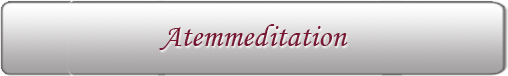
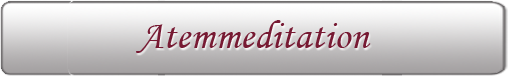
Styling efter Silkes anvisninger

Changed region(s): [[0.2657, 0.2632, 0.7382, 0.7368], [0.6496, 0.3158, 0.6791, 0.3421]]

diff --git a/www/about-silke.html b/www/about-silke.html
@@ -2,7 +2,7 @@
 <html lang="de">
 <head>
 	<meta http-equiv="Content-Type" content="text/html; charset=utf-8" />
-	<title>Mindfulness Bodyscan: Über Silke Rowlin</title>
+	<title>Achtsamkeits-meditation: Über Silke Rowlin</title>
     <link rel="stylesheet" href="css/mindf-bodyscan.css">
 	<script src="phonegap.js"></script>
     <script src="js/zepto.min.js"></script>
@@ -14,14 +14,17 @@
 	<div id="wrapper">
     	<div class="section group">
             <div class="col span_4_of_4">
-                <img src="img/Headline1.png" width="337" height="142" alt="Mindfulness Bodyscan"/>
+                <img src="img/Headline1.png" width="380" height="142" alt="Mindfulness Bodyscan"/><br/>
+            	<img src="img/Headline3.png" width="280" height="75" alt="Innere Stille im Alltag erleben"><br/>
             </div>
             
             <div class="col span_4_of_4">
               <div class="uberBox">
-                 Über Silke Rowlin
+                 <p>Silke Rowlin ist in Deutschland geboren und aufgewachsen. 
+                 Sie lebt und arbeitet als Psychologin und Meditationslehrerin in Dänemark.</p>
+				<p>Seit ihrer Jugendzeit hat Yoga, Meditation und Selbstfindung ihren Lebensweg erfüllt und geprägt. Die Ausbildung zur Yogalehrerin, Meditationsaufenthalte in Indien und eine nachfolgende tiefe innere Erfahrung des Seins, waren wichtige Wendepunkte in ihrem Leben. Dies hat dazu geführt, dass Silke sich heute in ihrer Arbeit als Psychologin der Aufgabe widmet Menschen zu helfen die heilende Kraft der Achtsamkeit wieder zu entdecken, zu erleben und in ihr Leben zu integrieren.</p>
               </div>
-              <a href="index.html" id="zuhauseButton" class="button">&nbsp;</a><br/>
+              <a href="willkommen.html" id="willkommenButton" class="button">&nbsp;</a><br/>
             </div>       
       </div>
     </div>

diff --git a/www/track5.html b/www/track5.html
@@ -2,7 +2,7 @@
 <html lang="de">
 <head>
 	<meta http-equiv="Content-Type" content="text/html; charset=utf-8" />
-	<title>Mindfulness Bodyscan: Achtsamkeit gegenüber schweren Gefühlen</title>
+	<title>Achtsamkeits-meditation: Schweren Gefühlen annehmen</title>
     <link rel="stylesheet" href="css/mindf-bodyscan.css">
 	<script src="phonegap.js"></script>
     <script src="js/zepto.min.js"></script>
@@ -93,16 +93,15 @@
 
 <body style="background-image:url(img/backgroundT5.jpg);">
 	<div id="wrapper">
-    	<div class="section group">
+<div class="section group">
                 <div class="col span_4_of_4">
-                	<img src="img/Headline1.png" width="337" height="142" alt="Mindfulness Bodyscan"/><br/>
-          			<img src="img/Headline2.png" width="152" height="112" alt="mit Psychologe Silke Rowlin"/>
+                	<img src="img/Headline1.png" width="380" height="142" alt="Mindfulness Bodyscan"/><br/>
+            		<img src="img/Headline3.png" width="280" height="75" alt="Innere Stille im Alltag erleben"><br/>
                 </div>
                 
                 <div class="col span_4_of_4">
                   <div class="trackNameBox">
-                     Achtsamkeit gegenüber schweren Gefühlen
-                  </div>
+                     Schwere Gefühle annehmen</div>
                 </div>
                 
                 <div class="col span_4_of_4">
@@ -113,7 +112,7 @@
                      <p id="audio_position"></p>
                   </div>
                   <br/>
-                  <a href="index.html" id="zuhauseButton" class="button">&nbsp;</a><br/>
+                  <a href="willkommen.html" id="willkommenButton" class="button">&nbsp;</a><br/>
                 </div>         
       </div>
     </div>

diff --git a/www/track4.html b/www/track4.html
@@ -2,7 +2,7 @@
 <html lang="de">
 <head>
 	<meta http-equiv="Content-Type" content="text/html; charset=utf-8" />
-	<title>Mindfulness Bodyscan: Bodyscan Im Körper zu Hause sein</title>
+	<title>Achtsamkeits-meditation: Bodyscan Im Körper zu Hause sein</title>
     <link rel="stylesheet" href="css/mindf-bodyscan.css">
 	<script src="phonegap.js"></script>
     <script src="js/zepto.min.js"></script>
@@ -93,15 +93,15 @@
 
 <body style="background-image:url(img/backgroundT4.jpg);">
 	<div id="wrapper">
-    	<div class="section group">
+  <div class="section group">
                 <div class="col span_4_of_4">
-                	<img src="img/Headline1.png" width="337" height="142" alt="Mindfulness Bodyscan"/><br/>
-          			<img src="img/Headline2.png" width="152" height="112" alt="mit Psychologe Silke Rowlin"/>
+                	<img src="img/Headline1.png" width="380" height="142" alt="Mindfulness Bodyscan"/><br/>
+            		<img src="img/Headline3.png" width="280" height="75" alt="Innere Stille im Alltag erleben"><br/>
                 </div>
                 
                 <div class="col span_4_of_4">
                   <div class="trackNameBox">
-                     Bodyscan Im Körper zu Hause sein
+                     Bodyscan
                   </div>
                 </div>
                 
@@ -113,7 +113,7 @@
                      <p id="audio_position"></p>
                   </div>
                   <br/>
-                  <a href="index.html" id="zuhauseButton" class="button">&nbsp;</a><br/>
+                  <a href="willkommen.html" id="willkommenButton" class="button">&nbsp;</a><br/>
                 </div>         
       </div>
     </div>

diff --git a/www/index.html b/www/index.html
@@ -3,7 +3,7 @@
 <head>
 	<meta charset="UTF-8">
 	<meta name="viewport" content="width=device-width, initial-scale=1">
-	<title>Mindfulness Bodyscan</title>
+	<title>Achtsamkeits-meditation</title>
 	<link rel="stylesheet" href="css/mindf-bodyscan.css">
 	<script src="phonegap.js"></script>
     <script src="js/zepto.min.js"></script>
@@ -15,16 +15,10 @@
 	<div id="wrapper">
     	<div class="section group">
                 <div class="col span_4_of_4">
-            		<img src="img/Headline1.png" width="337" height="142" alt="Mindfulness Bodyscan"/><br/>
-          			<img src="img/Headline2.png" width="152" height="112" alt="mit Psychologe Silke Rowlin"/>
-       
-                	<a href="track1.html" id="track1" class="button">&nbsp;</a><br/>
-                	<a href="track2.html" id="track2" class="button">&nbsp;</a><br/>
-                    <a href="track3.html" id="track3" class="button">&nbsp;</a><br/>
-                    <a href="track4.html" id="track4" class="button">&nbsp;</a><br/>
-                    <a href="track5.html" id="track5" class="button">&nbsp;</a><br/>
-                    <a href="track6.html" id="track6" class="button">&nbsp;</a><br/>
-                    <a href="about-silke.html" id="about-silke" class="button">&nbsp;</a><br/>
+            		<img src="img/Headline1.png" width="380" height="142" alt="Mindfulness Bodyscan"/><br/>
+            		<img src="img/Headline3.png" width="280" height="75" alt="Innere Stille im Alltag erleben"><br/>
+                    <br/><br/><br/>
+                    <a href="willkommen.html" id="willkommenButton" class="button">&nbsp;</a><br/>
                 </div>
         </div>
 

diff --git a/www/willkommen.html b/www/willkommen.html
@@ -1,0 +1,34 @@
+<!doctype html>
+<html lang="de">
+<head>
+	<meta charset="UTF-8">
+	<meta name="viewport" content="width=device-width, initial-scale=1">
+	<title>Achtsamkeits-meditation: Willkommen</title>
+	<link rel="stylesheet" href="css/mindf-bodyscan.css">
+	<script src="phonegap.js"></script>
+    <script src="js/zepto.min.js"></script>
+    <script src="js/index.js"></script>
+    <script type="text/javascript" charset="utf-8" src="cordova-x.x.x.js"></script>
+</head>
+
+<body style="background-image:url(img/willkommen.jpg);">
+	<div id="wrapper">
+  <div class="section group">
+                <div class="col span_4_of_4">
+            		<img src="img/Headline1.png" width="380" height="142" alt="Mindfulness Bodyscan"/><br/>
+            		<img src="img/Headline3.png" width="280" height="75" alt="Innere Stille im Alltag erleben"><br/>
+       
+               	  	<a href="track1.html" id="track1" class="button">&nbsp;</a><br/>
+                	<a href="track2.html" id="track2" class="button">&nbsp;</a><br/>
+                    <a href="track3.html" id="track3" class="button">&nbsp;</a><br/>
+                    <a href="track4.html" id="track4" class="button">&nbsp;</a><br/>
+                    <a href="track5.html" id="track5" class="button">&nbsp;</a><br/>
+                    <a href="track6.html" id="track6" class="button">&nbsp;</a><br/>
+                    <a href="about-silke.html" id="about-silke" class="button">&nbsp;</a><br/>
+                </div>
+        </div>
+
+	
+	</div>
+</body>
+</html>

diff --git a/www/track6.html b/www/track6.html
@@ -2,7 +2,7 @@
 <html lang="de">
 <head>
 	<meta http-equiv="Content-Type" content="text/html; charset=utf-8" />
-	<title>Mindfulness Bodyscan: Freundlichkeitsmeditation</title>
+	<title>Achtsamkeits-meditation: Freundlichkeitsmeditation</title>
     <link rel="stylesheet" href="css/mindf-bodyscan.css">
 	<script src="phonegap.js"></script>
     <script src="js/zepto.min.js"></script>
@@ -93,10 +93,10 @@
 
 <body style="background-image:url(img/backgroundT6.jpg);">
 	<div id="wrapper">
-    	<div class="section group">
+  <div class="section group">
                 <div class="col span_4_of_4">
-                	<img src="img/Headline1.png" width="337" height="142" alt="Mindfulness Bodyscan"/><br/>
-          			<img src="img/Headline2.png" width="152" height="112" alt="mit Psychologe Silke Rowlin"/>
+                	<img src="img/Headline1.png" width="380" height="142" alt="Mindfulness Bodyscan"/><br/>
+            		<img src="img/Headline3.png" width="280" height="75" alt="Innere Stille im Alltag erleben"><br/>
                 </div>
                 
                 <div class="col span_4_of_4">
@@ -113,7 +113,7 @@
                      <p id="audio_position"></p>
                   </div>
                   <br/>
-                  <a href="index.html" id="zuhauseButton" class="button">&nbsp;</a><br/>
+                  <a href="willkommen.html" id="willkommenButton" class="button">&nbsp;</a><br/>
                 </div>         
       </div>
     </div>

diff --git a/www/track2.html b/www/track2.html
@@ -2,7 +2,7 @@
 <html lang="de">
 <head>
 	<meta http-equiv="Content-Type" content="text/html; charset=utf-8" />
-	<title>Mindfulness Bodyscan: Im Jetzt ankommen</title>
+	<title>Achtsamkeits-meditation: Im Jetzt ankommen</title>
     <link rel="stylesheet" href="css/mindf-bodyscan.css">
 	<script src="phonegap.js"></script>
     <script src="js/zepto.min.js"></script>
@@ -93,10 +93,10 @@
 
 <body style="background-image:url(img/backgroundT2.jpg);">
 	<div id="wrapper">
-    	<div class="section group">
+  <div class="section group">
                 <div class="col span_4_of_4">
-                	<img src="img/Headline1.png" width="337" height="142" alt="Mindfulness Bodyscan"/><br/>
-          			<img src="img/Headline2.png" width="152" height="112" alt="mit Psychologe Silke Rowlin"/>
+                	<img src="img/Headline1.png" width="380" height="142" alt="Mindfulness Bodyscan"/><br/>
+            		<img src="img/Headline3.png" width="280" height="75" alt="Innere Stille im Alltag erleben"><br/>
                 </div>
                 
                 <div class="col span_4_of_4">
@@ -113,7 +113,7 @@
                      <p id="audio_position"></p>
                   </div>
                   <br/>
-                  <a href="index.html" id="zuhauseButton" class="button">&nbsp;</a><br/>
+                  <a href="willkommen.html" id="willkommenButton" class="button">&nbsp;</a><br/>
                 </div>         
       </div>
     </div>

diff --git a/www/track3.html b/www/track3.html
@@ -2,7 +2,7 @@
 <html lang="de">
 <head>
 	<meta http-equiv="Content-Type" content="text/html; charset=utf-8" />
-	<title>Mindfulness Bodyscan: Atemmeditation</title>
+	<title>Achtsamkeits-meditation: Atemmeditation</title>
     <link rel="stylesheet" href="css/mindf-bodyscan.css">
 	<script src="phonegap.js"></script>
     <script src="js/zepto.min.js"></script>
@@ -93,10 +93,10 @@
 
 <body style="background-image:url(img/backgroundT3.jpg);">
 	<div id="wrapper">
-    	<div class="section group">
+  <div class="section group">
                 <div class="col span_4_of_4">
-                	<img src="img/Headline1.png" width="337" height="142" alt="Mindfulness Bodyscan"/><br/>
-          			<img src="img/Headline2.png" width="152" height="112" alt="mit Psychologe Silke Rowlin"/>
+                	<img src="img/Headline1.png" width="380" height="142" alt="Mindfulness Bodyscan"/><br/>
+            		<img src="img/Headline3.png" width="280" height="75" alt="Innere Stille im Alltag erleben"><br/>
                 </div>
                 
                 <div class="col span_4_of_4">
@@ -113,7 +113,7 @@
                      <p id="audio_position"></p>
                   </div>
                   <br/>
-                  <a href="index.html" id="zuhauseButton" class="button">&nbsp;</a><br/>
+                  <a href="willkommen.html" id="willkommenButton" class="button">&nbsp;</a><br/>
                 </div>         
       </div>
     </div>

diff --git a/www/track1.html b/www/track1.html
@@ -2,7 +2,7 @@
 <html lang="de">
 <head>
 	<meta http-equiv="Content-Type" content="text/html; charset=utf-8" />
-	<title>Mindfulness Bodyscan Vorwort</title>
+	<title>Achtsamkeits-meditation: Vorwort</title>
     <link rel="stylesheet" href="css/mindf-bodyscan.css">
 	<script src="phonegap.js"></script>
     <script src="js/zepto.min.js"></script>
@@ -93,10 +93,10 @@
 
 <body style="background-image:url(img/backgroundT1.jpg);">
 	<div id="wrapper">
-    	<div class="section group">
+  <div class="section group">
                 <div class="col span_4_of_4">
-                	<img src="img/Headline1.png" width="337" height="142" alt="Mindfulness Bodyscan"/><br/>
-          			<img src="img/Headline2.png" width="152" height="112" alt="mit Psychologe Silke Rowlin"/>
+                	<img src="img/Headline1.png" width="380" height="142" alt="Mindfulness Bodyscan"/><br/>
+            		<img src="img/Headline3.png" width="280" height="75" alt="Innere Stille im Alltag erleben"><br/>
                 </div>
                 
                 <div class="col span_4_of_4">
@@ -113,7 +113,7 @@
                      <p id="audio_position"></p>
                   </div>
                   <br/>
-                  <a href="index.html" id="zuhauseButton" class="button">&nbsp;</a><br/>
+                  <a href="willkommen.html" id="willkommenButton" class="button">&nbsp;</a><br/>
                 </div>         
       </div>
     </div>

diff --git a/www/css/mindf-bodyscan.css b/www/css/mindf-bodyscan.css
@@ -18,6 +18,7 @@ body {
 	text-decoration: none;
 	color: #771a33;
 	background-size: 100% 100%;
+	max-width: 500px;
 }
 
 .smallButton {
@@ -37,6 +38,7 @@ body {
 	font-size:22px;
 	font-weight: bold;
 	margin-top: 80px;
+	max-width: 500px;
 }
 
 .uberBox {
@@ -48,13 +50,23 @@ body {
 	font-size:22px;
 	margin-top: 80px;
 	text-align:left;
-	padding: 5px;
+	padding: 10px;
+	max-width: 500px;
+	overflow:hidden;
+	-moz-border-radius: 10px;
+	border-radius: 10px;
+}
+
+.uberBox p{
+	font-size: 20px;
+	line-height: 21px;
 }
 
 .playButtonContainer {
 	margin: 0 auto;
 	width:90%;
 	margin-top: 30px;
+	max-width: 500px;
 }
 
 #track1 {
@@ -138,11 +150,11 @@ body {
 	background-image:url(../img/stopButton-aktiv.png);
 }
 
-#zuhauseButton {
+#willkommenButton {
 	background-image:url(../img/ZuhauseButton-inaktiv.png);
 }
 
-#zuhauseButton.tapped {
+#willkommenButton.tapped {
 	background-image:url(../img/ZuhauseButton-aktiv.png);
 }
 
@@ -157,7 +169,7 @@ body {
 .col {
 	display: block;
 	float:left;
-	margin: 1% 0 1% 1.6%;
+	margin: 1% 0 1% 0%;
 }
 .col:first-child { margin-left: 0; }
 
